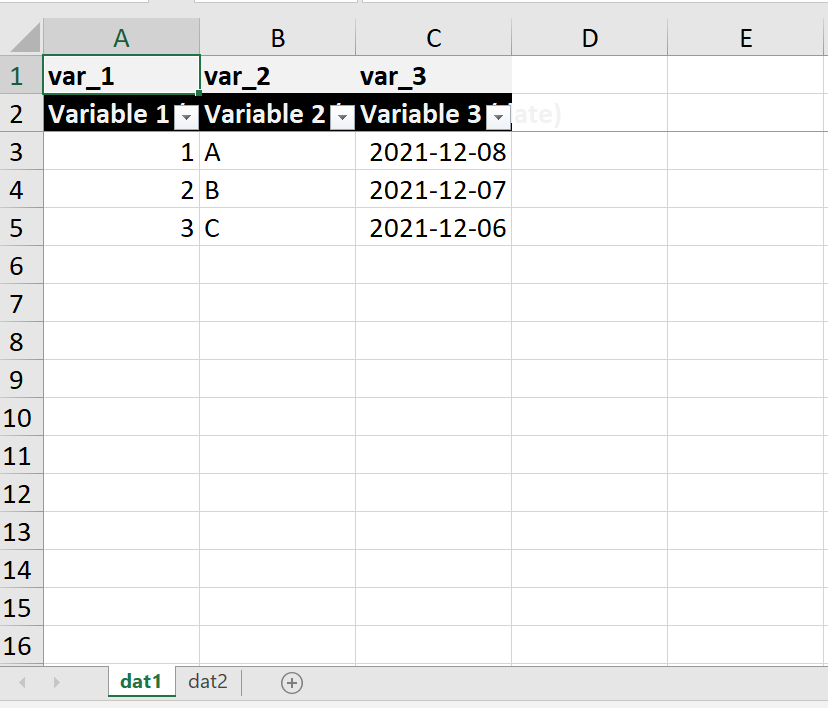
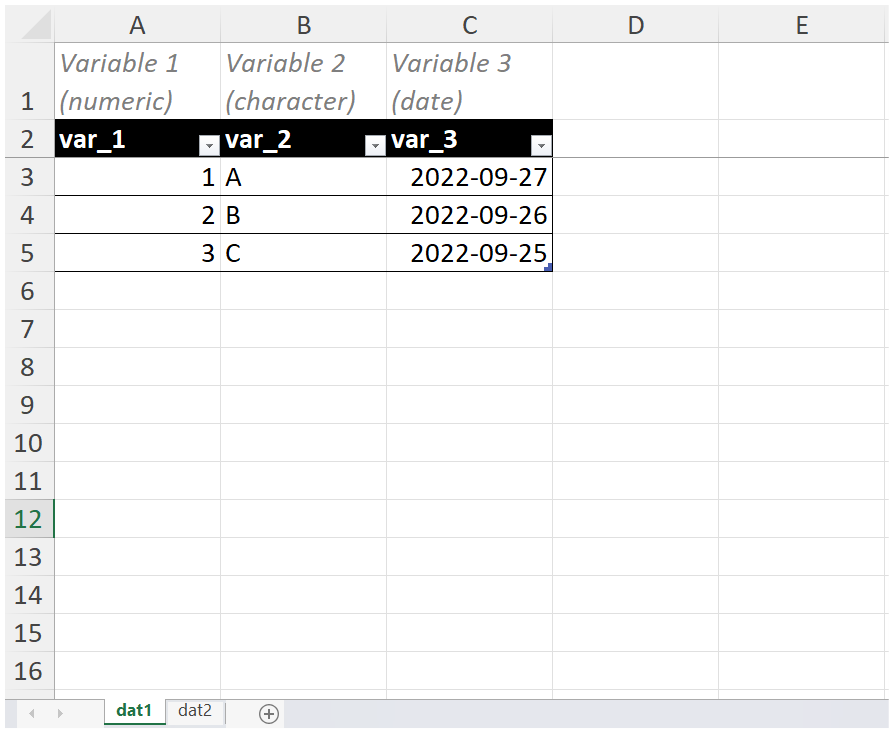
Interchanged rows for Labels and Column names. Added new Tests to prove it works. Updated README and included new screenshot.

diff --git a/README.md b/README.md
@@ -102,14 +102,14 @@ add_labelled_sheet(out)
 saveWorkbook(wb, "check-wb-2.xlsx")
 ```
 
-<img src="man/figures/check-wb-2.PNG" title="Shows two tabs named dat1 and dat2. Row 1 has a light gray background and dark text; row 2 has a black background and white text." alt="Shows two tabs named dat1 and dat2. Row 1 has a light gray background and dark text; row 2 has a black background and white text." width="100%" />
+<img src="man/figures/check-wb-2.PNG" alt="Shows two tabs named dat1 and dat2. Row 1 has light gray italics text and white background; row 2 has a black background and white text." width="100%" />
 
 ## Importing labelled data from excel
 
 Needs more documentation!
 
-This imports a single sheet that assumes variables names are in row 1
-and variable labels are row 2. You can optionally specify a regex
+This imports a single sheet that assumes variables labels are in row 1
+and variable names are row 2. You can optionally specify a regex
 expression for `date_detect` to identify variables that should be
 explicitly imported as a date.
 
